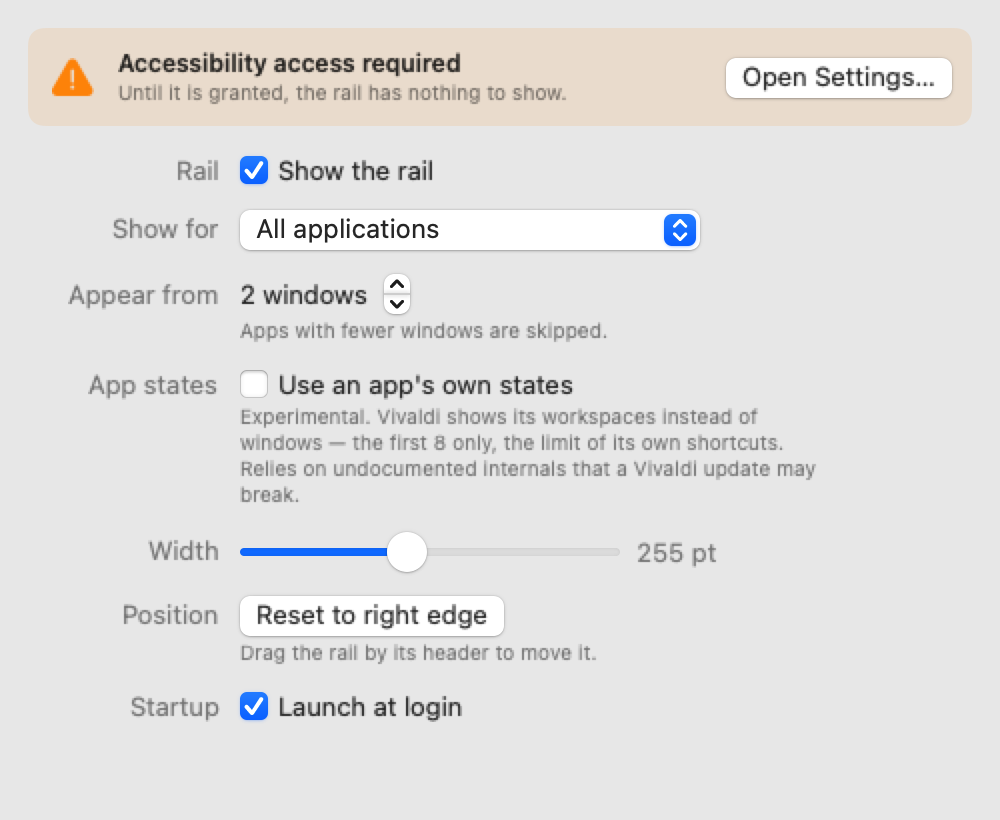
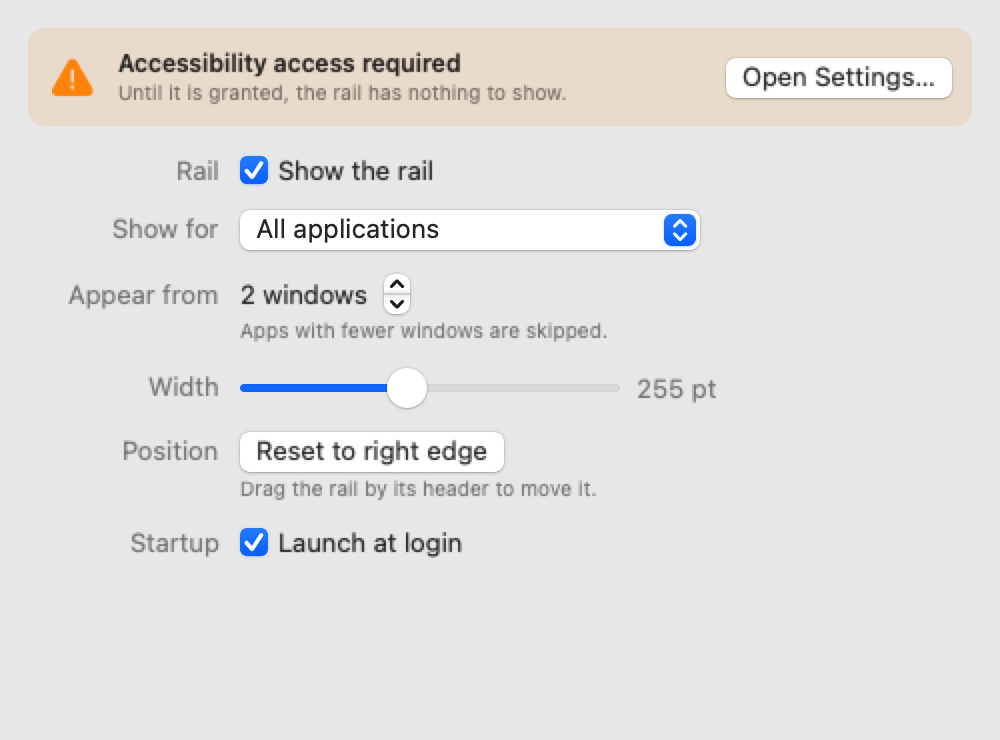
Move app-specific states to their own Advanced tab
An experimental switch that depends on another application's internals does
not belong among the settings that simply work — someone scanning General
should not have to reason about it. It now sits in an Advanced tab with the
room to say what it does, why it is off, and which applications are
supported, instead of a caption squeezed into a grid row.

General is a shorter list for it, so the window loses the height it had
gained to fit that caption.

diff --git a/Sources/PaneRail/UI/AdvancedSettingsView.swift b/Sources/PaneRail/UI/AdvancedSettingsView.swift
@@ -1,0 +1,62 @@
+import PaneRailKit
+import SwiftUI
+
+/// Everything that depends on another application's internals lives here,
+/// away from the settings that simply work.
+struct AdvancedSettingsView: View {
+    @ObservedObject var preferences: Preferences
+
+    var body: some View {
+        VStack(alignment: .leading, spacing: 14) {
+            VStack(alignment: .leading, spacing: 6) {
+                Text("App-specific states")
+                    .font(.headline)
+                Text("""
+                Some applications keep their own internal states that matter \
+                more than their windows. The rail can show those instead.
+                """)
+                    .fixedSize(horizontal: false, vertical: true)
+                    .foregroundStyle(.secondary)
+            }
+
+            Toggle("Use an app's own states", isOn: $preferences.appSpecificProviders)
+
+            Text("""
+            Off by default: this depends on internals the other application \
+            does not document, and its next update may change them. Whenever \
+            they cannot be read, that app falls back to plain window switching.
+            """)
+                .font(.callout)
+                .foregroundStyle(.secondary)
+                .fixedSize(horizontal: false, vertical: true)
+
+            Divider()
+
+            VStack(alignment: .leading, spacing: 6) {
+                Text("Supported applications")
+                    .font(.headline)
+
+                HStack(alignment: .top, spacing: 8) {
+                    Image(systemName: "square.grid.3x3.topleft.filled")
+                        .foregroundStyle(Color.accentColor)
+                        .frame(width: 16)
+                    VStack(alignment: .leading, spacing: 2) {
+                        Text("Vivaldi — workspaces")
+                        Text("""
+                        Workspaces live inside a single window, so window \
+                        switching does not reach them. Only the first \
+                        \(VivaldiRailProvider.switchableCount) can be switched \
+                        to, the limit of Vivaldi's own shortcuts; the rest are \
+                        listed but dimmed.
+                        """)
+                            .font(.caption)
+                            .foregroundStyle(.secondary)
+                            .fixedSize(horizontal: false, vertical: true)
+                    }
+                }
+            }
+
+            Spacer(minLength: 0)
+        }
+    }
+}

diff --git a/Sources/PaneRail/UI/SettingsView.swift b/Sources/PaneRail/UI/SettingsView.swift
@@ -12,9 +12,12 @@ struct SettingsView: View {
 
             AppsSettingsView(preferences: preferences)
                 .tabItem { Label("Apps", systemImage: "square.grid.2x2") }
+
+            AdvancedSettingsView(preferences: preferences)
+                .tabItem { Label("Advanced", systemImage: "flask") }
         }
         .padding(14)
-        .frame(width: 500, height: 470)
+        .frame(width: 500, height: 430)
     }
 }
 
@@ -97,18 +100,6 @@ struct GeneralSettingsView: View {
                              : "Apps with fewer windows are skipped.")
                             .font(.caption)
                             .foregroundStyle(.secondary)
-                    }
-                }
-
-                GridRow {
-                    label("App states")
-                    VStack(alignment: .leading, spacing: 2) {
-                        Toggle("Use an app's own states", isOn: $preferences.appSpecificProviders)
-                        Text("Experimental. Vivaldi shows its workspaces instead of windows — the first \(VivaldiRailProvider.switchableCount) only, the limit of its own shortcuts. Relies on undocumented internals that a Vivaldi update may break.")
-                            .font(.caption)
-                            .foregroundStyle(.secondary)
-                            .fixedSize(horizontal: false, vertical: true)
-                            .frame(width: 300, alignment: .leading)
                     }
                 }
 

diff --git a/Sources/PaneRail/PreviewRenderer.swift b/Sources/PaneRail/PreviewRenderer.swift
@@ -102,19 +102,23 @@ enum PreviewRenderer {
         )
     }
 
-    /// Renders the General tab's content, so its layout can be checked without
+    /// Renders one settings tab's content, so its layout can be checked without
     /// a Screen Recording grant to capture the real window.
-    static func renderSettings(to path: String, dark: Bool) -> Bool {
+    static func renderSettings(to path: String, dark: Bool, advanced: Bool = false) -> Bool {
         let suite = UserDefaults(suiteName: "dev.kafeg.panerail.preview") ?? .standard
         suite.removePersistentDomain(forName: "dev.kafeg.panerail.preview")
 
-        let view = GeneralSettingsView(
-            preferences: Preferences(defaults: suite),
-            authorizer: AccessibilityAuthorizer()
-        )
+        let preferences = Preferences(defaults: suite)
+        let view = Group {
+            if advanced {
+                AdvancedSettingsView(preferences: preferences)
+            } else {
+                GeneralSettingsView(preferences: preferences, authorizer: AccessibilityAuthorizer())
+            }
+        }
         .padding(14)
 
-        let size = CGSize(width: 500, height: 410)
+        let size = CGSize(width: 500, height: 370)
         let hosting = NSHostingView(rootView: view)
         hosting.frame = CGRect(origin: .zero, size: size)
 

diff --git a/Sources/PaneRail/DeveloperCommands.swift b/Sources/PaneRail/DeveloperCommands.swift
@@ -41,7 +41,9 @@ enum DeveloperCommands {
         }
 
         if let path = value(after: "--render-settings") {
-            finish(PreviewRenderer.renderSettings(to: path, dark: dark))
+            finish(PreviewRenderer.renderSettings(
+                to: path, dark: dark, advanced: arguments.contains("--advanced")
+            ))
         }
 
         if arguments.contains("--probe-vivaldi-live") {

diff --git a/Sources/PaneRail/UI/SettingsWindowController.swift b/Sources/PaneRail/UI/SettingsWindowController.swift
@@ -22,7 +22,7 @@ final class SettingsWindowController {
 
     private func makeWindow() -> NSWindow {
         let window = NSWindow(
-            contentRect: NSRect(x: 0, y: 0, width: 500, height: 470),
+            contentRect: NSRect(x: 0, y: 0, width: 500, height: 430),
             styleMask: [.titled, .closable, .miniaturizable],
             backing: .buffered,
             defer: false

diff --git a/README.md b/README.md
@@ -66,7 +66,6 @@ permission state is the first thing the window reports, and it updates live.
 | --- | --- |
 | Show for | All applications, or only the ones ticked in the Apps tab |
 | Appear from *n* windows | The rail stays hidden below this many windows. Set it to 1 to always show it |
-| Use an app's own states | Experimental, off by default — see below |
 | Width | 160–380 pt |
 | Position | Reset the rail back to the right edge |
 | Launch at login | Registers a login item via `SMAppService` |
@@ -74,8 +73,8 @@ permission state is the first thing the window reports, and it updates live.
 ## App-specific states (experimental)
 
 Some applications keep their own internal states that matter more than their
-windows. With **Use an app's own states** switched on, the rail shows those
-instead.
+windows. With **Use an app's own states** switched on — it lives in the Advanced
+tab — the rail shows those instead.
 
 It is off by default because it depends on undocumented internals of the app in
 question, which that app's next update may change. Whenever those internals
